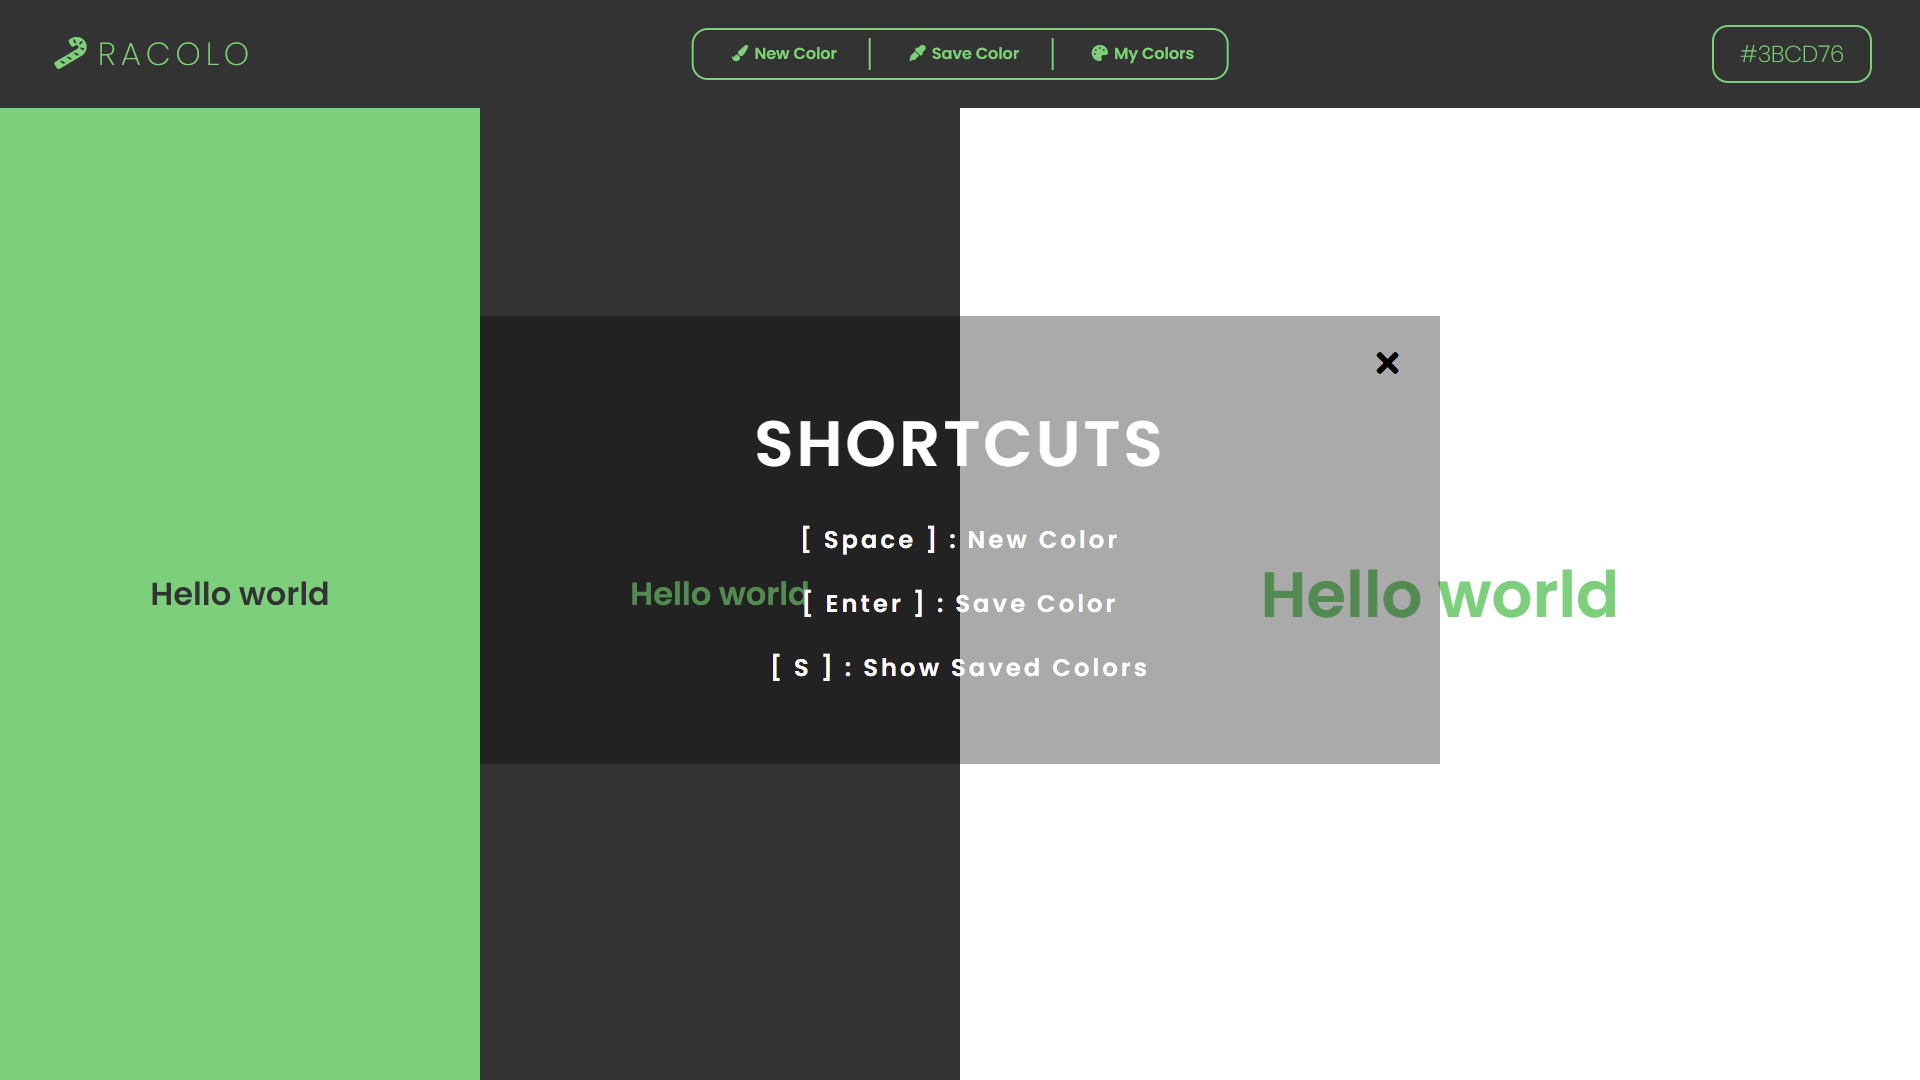
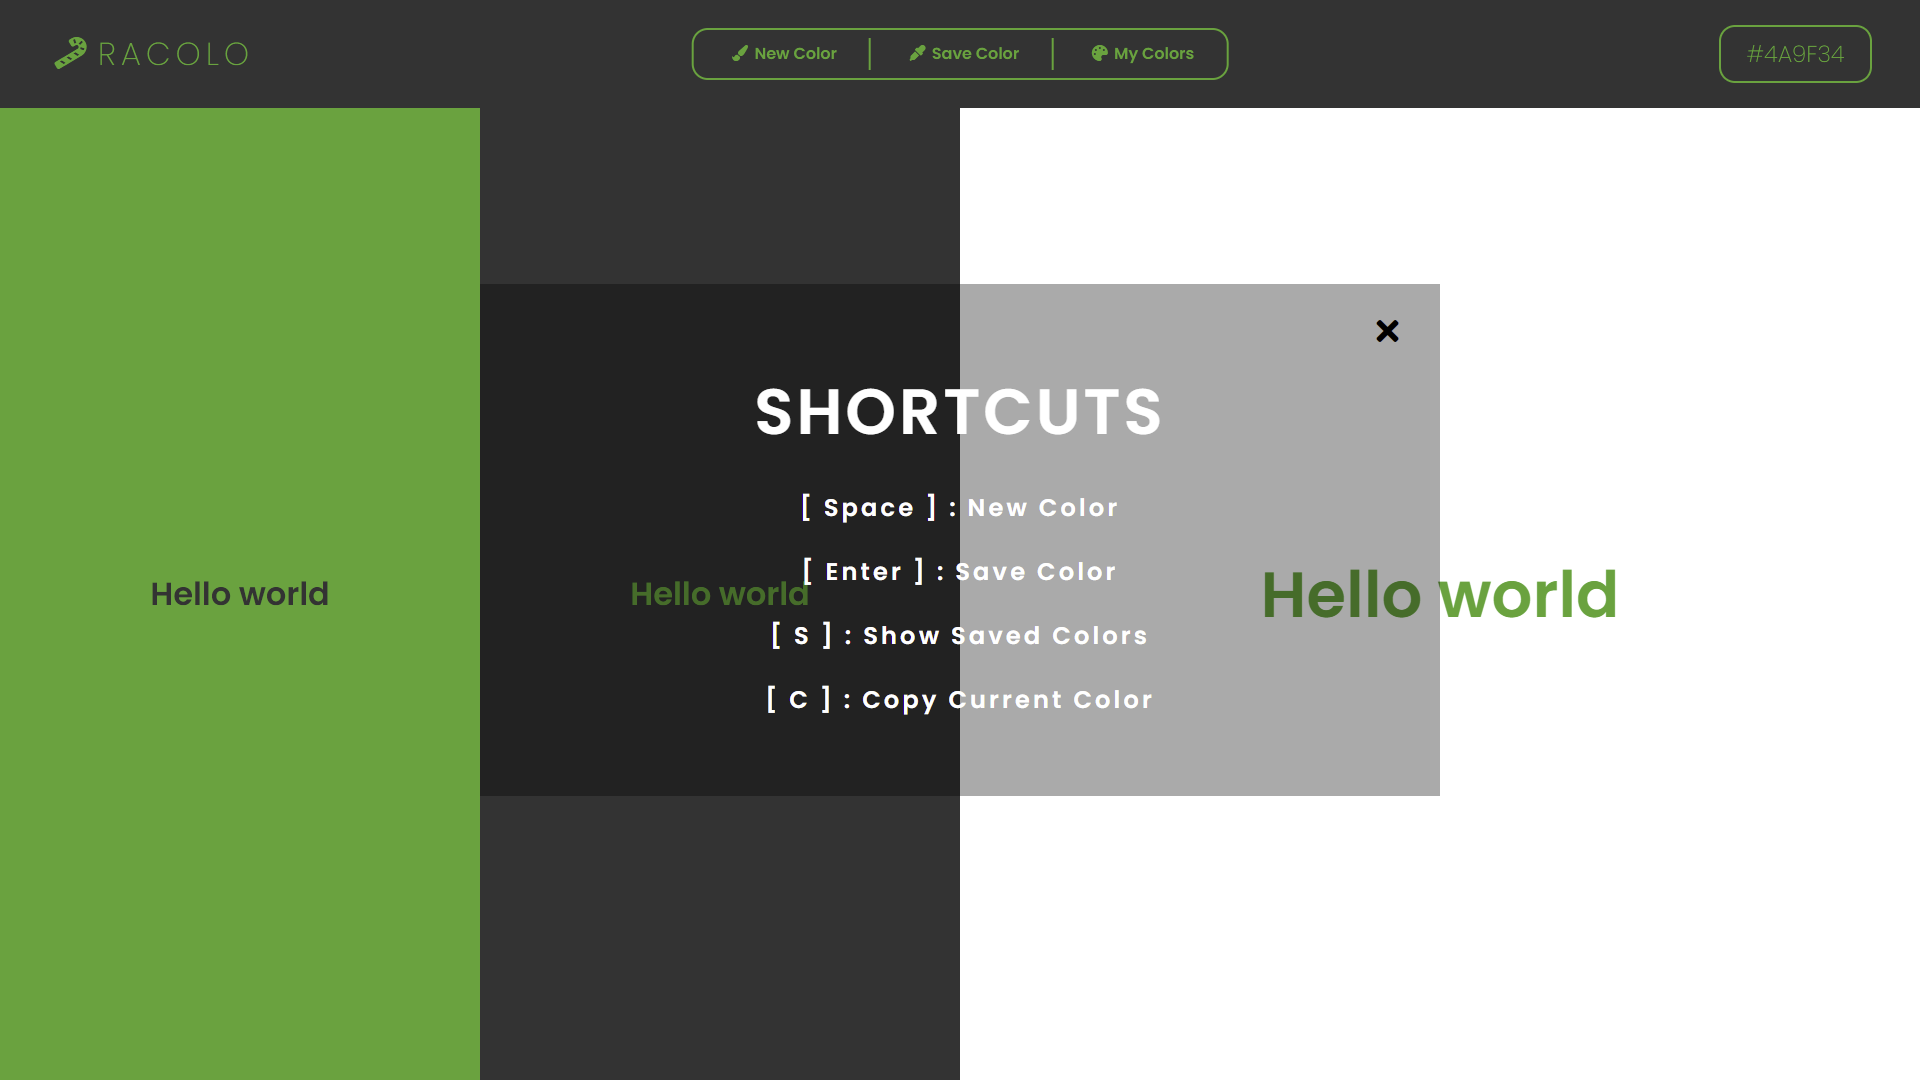
added copy color shortcut

diff --git a/index.html b/index.html
@@ -18,6 +18,7 @@
           <h2>[ Space ] : New Color</h2>
           <h2>[ Enter ] : Save Color</h2>
           <h2>[ S ] : Show Saved Colors</h2>
+          <h2>[ C ] : Copy Current Color</h2>
      </section>
 <input type="input" id="hexcode">
      <div class="top">

diff --git a/files/jquery.js b/files/jquery.js
@@ -108,5 +108,7 @@ document.body.onkeyup = function(e){
           saveColor();
      }else if(e.keyCode == 83){
           showcolors();
+     }else if(e.keyCode == 67){
+          copyColor();
      }
 }
